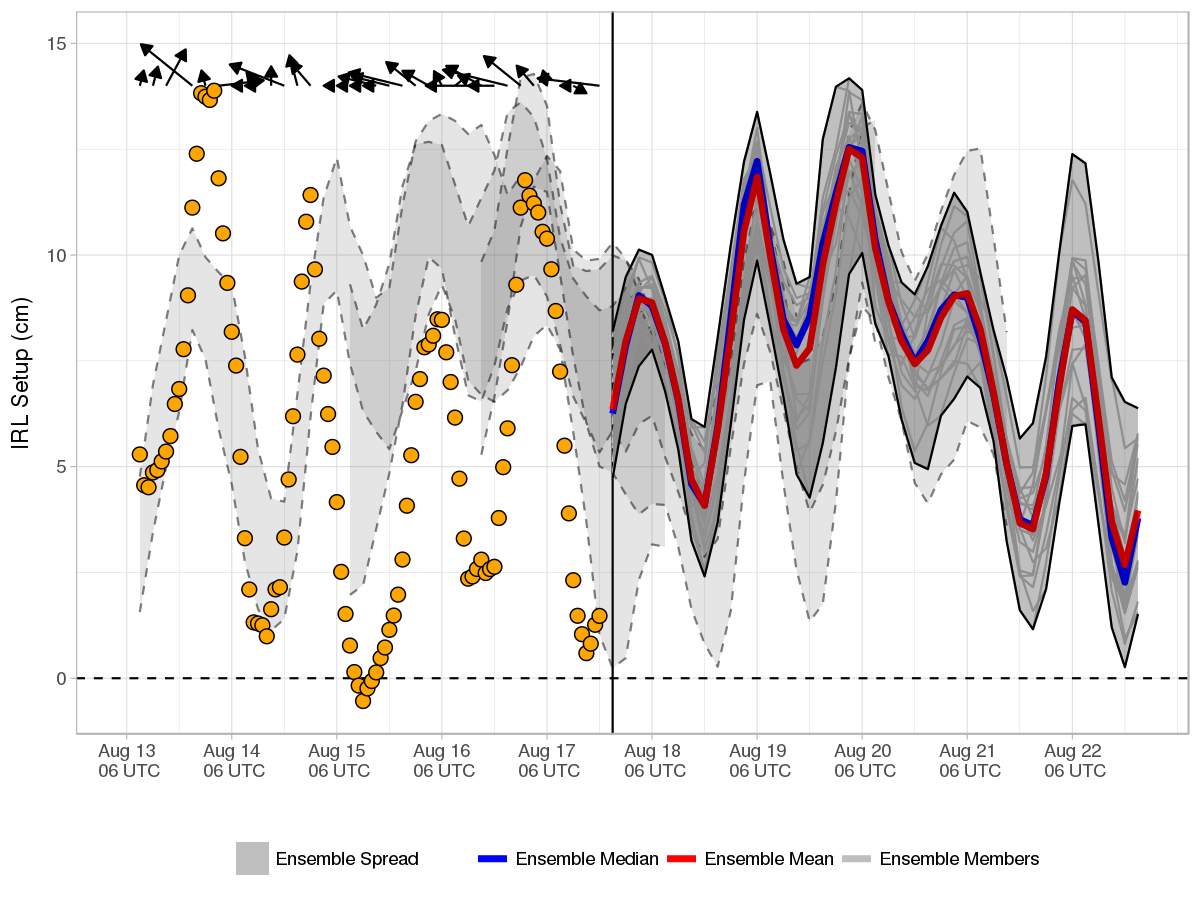
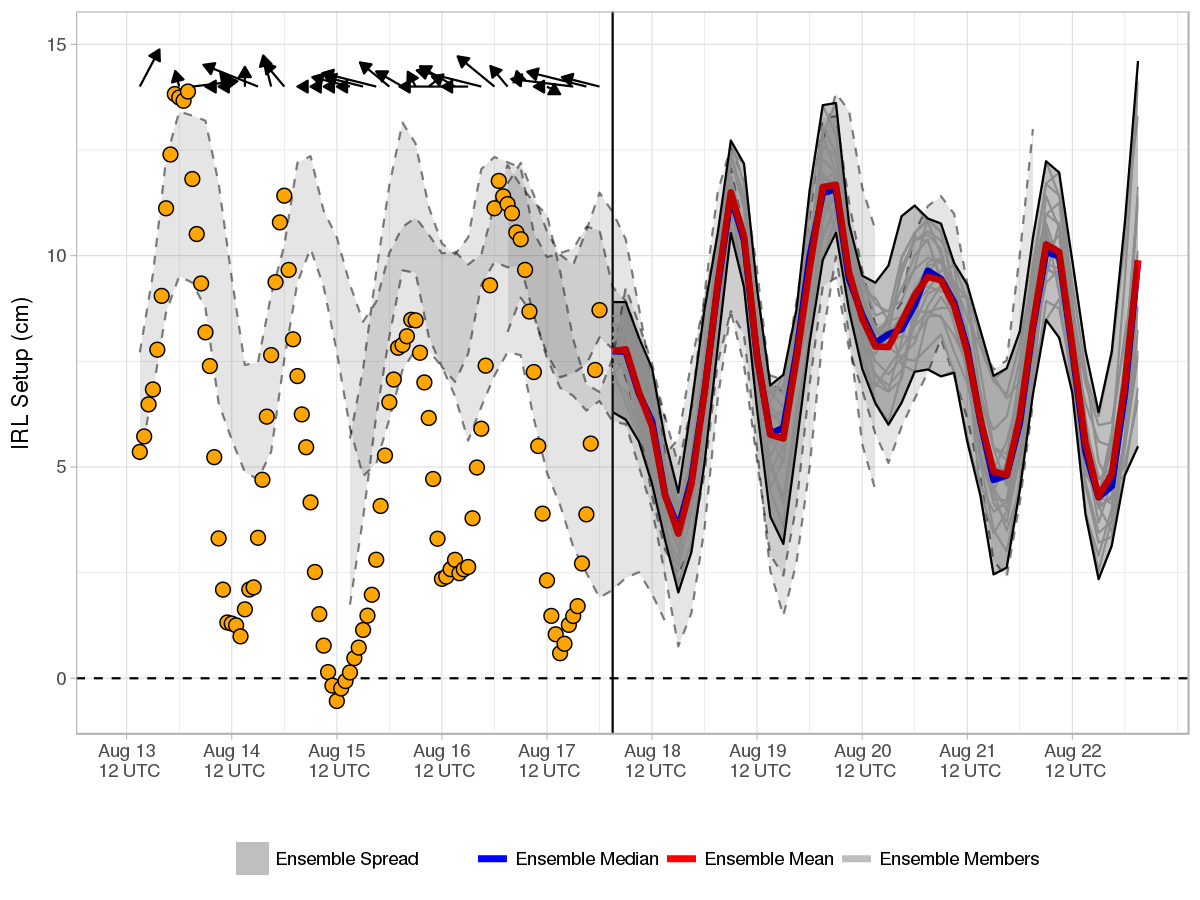
Forecast Update

diff --git a/docs/index.md b/docs/index.md
@@ -1,9 +1,9 @@
-Current Forecast 2018-08-17, Cycle 12 UTC
+Current Forecast 2018-08-17, Cycle 18 UTC
 -----------------------------------------
 
 [![](img/raw_setup.png)](https://fit-winds.github.io/IRLSetup/img/raw_setup.png)
 
-> Forecast valid 2018-08-17 14:24:47.
+> Forecast valid 2018-08-17 20:24:55.
 
 Explanation
 -----------
@@ -23,7 +23,7 @@ Ensemble Forecast System
 cycles. Calculation of the IRL setup is performed shortly after a new
 GEFS cycle is made available on the [data access
 link](http://www.ftp.ncep.noaa.gov/data/nccf/com/gens/prod/). The
-current cycle 2018-08-17 12 UTC 0.5° GEFS mean and median forecasts of
+current cycle 2018-08-17 18 UTC 0.5° GEFS mean and median forecasts of
 setup are represented by the red and blue curves, respectively. Ensemble
 spread from the current and three previous GEFS runs are shaded grey and
 bounded by solid and dashed curves, respectively.
